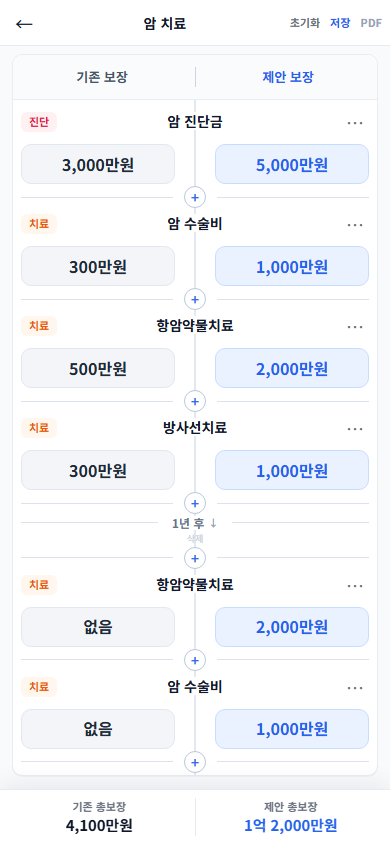
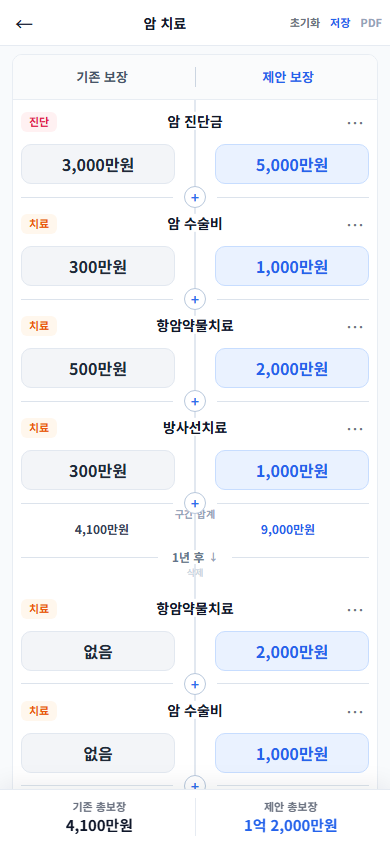
feat(coverage-simulator): period subtotals before time markers
Domain period totals, compact UI above markers, and no insert control below markers on mobile timeline.

diff --git a/src/features/coverage-simulator/domain/periodTotals.test.ts b/src/features/coverage-simulator/domain/periodTotals.test.ts
@@ -1,0 +1,146 @@
+import { describe, expect, it } from 'vitest'
+
+import { createScenarioId } from './ids'
+import {
+  calculateOpenPeriodAfterLastMarker,
+  calculateScenarioPeriodTotals,
+  sumCoverageAmounts,
+} from './periodTotals'
+import { insertTimeMarkerAfter, removeScenarioItem } from './scenarioOperations'
+import { calculateScenarioTotals } from './totals'
+import type { CoverageScenario, CoverageScenarioItem, ScenarioItem } from './types'
+
+function coverage(
+  partial: Omit<CoverageScenarioItem, 'id' | 'type' | 'order'> & { order: number },
+): CoverageScenarioItem {
+  return { id: createScenarioId(), type: 'coverage', ...partial }
+}
+
+function marker(label: string, order: number) {
+  return { id: createScenarioId(), type: 'time-marker' as const, label, order }
+}
+
+function scenario(items: ScenarioItem[]): CoverageScenario {
+  return {
+    id: 's1',
+    title: 'test',
+    diseaseType: 'cancer',
+    description: '',
+    consultationDate: '2026-01-01',
+    items,
+    createdAt: '',
+    updatedAt: '',
+  }
+}
+
+describe('periodTotals', () => {
+  it('no marker → no period rows', () => {
+    const items = [
+      coverage({ order: 0, category: 'diagnosis', label: 'A', currentAmount: 1, proposedAmount: 2 }),
+    ]
+    expect(calculateScenarioPeriodTotals(items)).toHaveLength(0)
+  })
+
+  it('one marker → subtotal from start to marker', () => {
+    const m = marker('1년 후', 3)
+    const items = [
+      coverage({ order: 0, category: 'diagnosis', label: 'a', currentAmount: 30_000_000, proposedAmount: 50_000_000 }),
+      coverage({ order: 1, category: 'treatment', label: 'b', currentAmount: 3_000_000, proposedAmount: 10_000_000 }),
+      coverage({ order: 2, category: 'treatment', label: 'c', currentAmount: 5_000_000, proposedAmount: 20_000_000 }),
+      m,
+    ]
+    const [p] = calculateScenarioPeriodTotals(items)
+    expect(p.currentTotal).toBe(38_000_000)
+    expect(p.proposedTotal).toBe(80_000_000)
+    expect(p.endMarkerId).toBe(m.id)
+    expect(p.startMarkerId).toBeNull()
+  })
+
+  it('two markers → independent segments', () => {
+    const m1 = marker('1년 후', 4)
+    const m2 = marker('1년 후', 7)
+    const items = [
+      coverage({ order: 0, category: 'diagnosis', label: '암 진단', currentAmount: 30_000_000, proposedAmount: 50_000_000 }),
+      coverage({ order: 1, category: 'treatment', label: '암 수술', currentAmount: 3_000_000, proposedAmount: 10_000_000 }),
+      coverage({ order: 2, category: 'treatment', label: '항암', currentAmount: 5_000_000, proposedAmount: 20_000_000 }),
+      coverage({ order: 3, category: 'treatment', label: '방사선', currentAmount: 3_000_000, proposedAmount: 10_000_000 }),
+      m1,
+      coverage({ order: 5, category: 'treatment', label: '항암2', currentAmount: 0, proposedAmount: 20_000_000 }),
+      coverage({ order: 6, category: 'treatment', label: '수술2', currentAmount: 0, proposedAmount: 10_000_000 }),
+      m2,
+      coverage({ order: 8, category: 'treatment', label: '방사선2', currentAmount: 0, proposedAmount: 10_000_000 }),
+    ]
+    const periods = calculateScenarioPeriodTotals(items)
+    expect(periods).toHaveLength(2)
+    expect(periods[0].currentTotal).toBe(41_000_000)
+    expect(periods[0].proposedTotal).toBe(90_000_000)
+    expect(periods[1].currentTotal).toBe(0)
+    expect(periods[1].proposedTotal).toBe(30_000_000)
+    expect(periods[1].startMarkerId).toBe(m1.id)
+
+    const grand = calculateScenarioTotals(scenario(items))
+    expect(grand.currentTotal).toBe(41_000_000)
+    expect(grand.proposedTotal).toBe(130_000_000)
+
+    const tail = calculateOpenPeriodAfterLastMarker(items)
+    expect(tail.proposedTotal).toBe(10_000_000)
+  })
+
+  it('marker delete merges segments', () => {
+    const m1 = marker('1년 후', 2)
+    const m2 = marker('2년 후', 4)
+    let s = scenario([
+      coverage({ order: 0, category: 'diagnosis', label: 'a', currentAmount: 10, proposedAmount: 20 }),
+      coverage({ order: 1, category: 'diagnosis', label: 'b', currentAmount: 1, proposedAmount: 2 }),
+      m1,
+      coverage({ order: 3, category: 'diagnosis', label: 'c', currentAmount: 100, proposedAmount: 200 }),
+      m2,
+    ])
+    s = removeScenarioItem(s, m1.id)
+    const periods = calculateScenarioPeriodTotals(s.items)
+    expect(periods).toHaveLength(1)
+    expect(periods[0].currentTotal).toBe(111)
+    expect(periods[0].proposedTotal).toBe(222)
+    expect(calculateScenarioTotals(s).currentTotal).toBe(111)
+  })
+
+  it('item order defines period membership', () => {
+    const m = marker('1년 후', 2)
+    const itemsBeforeMarker = [
+      coverage({ order: 0, category: 'diagnosis', label: 'before', currentAmount: 5, proposedAmount: 5 }),
+      m,
+      coverage({ order: 3, category: 'diagnosis', label: 'after', currentAmount: 50, proposedAmount: 50 }),
+    ]
+    expect(calculateScenarioPeriodTotals(itemsBeforeMarker)[0].currentTotal).toBe(5)
+    expect(calculateOpenPeriodAfterLastMarker(itemsBeforeMarker).currentTotal).toBe(50)
+
+    const itemsMerged = [
+      coverage({ order: 0, category: 'diagnosis', label: 'before', currentAmount: 5, proposedAmount: 5 }),
+      coverage({ order: 1, category: 'diagnosis', label: 'after', currentAmount: 50, proposedAmount: 50 }),
+      m,
+    ]
+    expect(calculateScenarioPeriodTotals(itemsMerged)[0].currentTotal).toBe(55)
+    expect(calculateOpenPeriodAfterLastMarker(itemsMerged).currentTotal).toBe(0)
+  })
+
+  it('insert marker splits one period into two', () => {
+    let s = scenario([
+      coverage({ order: 0, category: 'diagnosis', label: 'A', currentAmount: 10, proposedAmount: 10 }),
+      coverage({ order: 1, category: 'diagnosis', label: 'B', currentAmount: 1, proposedAmount: 1 }),
+      coverage({ order: 2, category: 'diagnosis', label: 'C', currentAmount: 100, proposedAmount: 100 }),
+    ])
+    s = insertTimeMarkerAfter(s, 1, '6개월 후')
+    const periods = calculateScenarioPeriodTotals(s.items)
+    expect(periods).toHaveLength(1)
+    expect(periods[0].currentTotal).toBe(11)
+    expect(calculateOpenPeriodAfterLastMarker(s.items).currentTotal).toBe(100)
+  })
+
+  it('sumCoverageAmounts treats null as zero', () => {
+    expect(
+      sumCoverageAmounts([
+        coverage({ order: 0, category: 'other', label: 'x', currentAmount: null, proposedAmount: 3 }),
+      ]),
+    ).toEqual({ currentTotal: 0, proposedTotal: 3 })
+  })
+})

diff --git a/src/features/coverage-simulator/components/center-timeline/CenterAxisTimeline.tsx b/src/features/coverage-simulator/components/center-timeline/CenterAxisTimeline.tsx
@@ -1,8 +1,12 @@
+import { useMemo } from 'react'
+
 import { CoverageBadge } from '../CoverageBadge'
 import { formatCoverageAmountLabel, formatTotalAmountLabel } from '../../domain/formatAmount'
+import { periodTotalsByEndMarkerId } from '../../domain/periodTotals'
 import type { CoverageScenarioItem, ScenarioItem } from '../../domain/types'
 import { EventRowMenu } from './EventRowMenu'
 import { TimelineInsertControl } from './TimelineInsertControl'
+import { TimelinePeriodSubtotal } from './TimelinePeriodSubtotal'
 
 export type CenterAxisTimelineProps = {
   items: ScenarioItem[]
@@ -102,6 +106,7 @@ export function CenterAxisTimeline({
   onAddAfter,
 }: CenterAxisTimelineProps) {
   const handlers = { onEditItem, onMoveItem, onRemoveItem }
+  const periodByMarkerId = useMemo(() => periodTotalsByEndMarkerId(items), [items])
 
   return (
     <section className={`cs-axis-sheet cs-axis-sheet--${variant}`} aria-label="보장 비교 타임라인">
@@ -119,12 +124,22 @@ export function CenterAxisTimeline({
           ) : null}
           {items.map((item) => (
             <div key={item.id} className="cs-axis-block">
-              {item.type === 'time-marker'
-                ? renderTimeMarker(item, onRemoveItem)
-                : renderCoverageRow(item, variant, handlers)}
-              {compactInsert ? (
-                <TimelineInsertControl afterOrder={item.order} onInsert={onAddAfter} />
+              {item.type === 'time-marker' ? (
+                <>
+                  {periodByMarkerId.has(item.id) ? (
+                    <TimelinePeriodSubtotal
+                      currentTotal={periodByMarkerId.get(item.id)!.currentTotal}
+                      proposedTotal={periodByMarkerId.get(item.id)!.proposedTotal}
+                    />
+                  ) : null}
+                  {renderTimeMarker(item, onRemoveItem)}
+                </>
               ) : (
+                renderCoverageRow(item, variant, handlers)
+              )}
+              {compactInsert && item.type !== 'time-marker' ? (
+                <TimelineInsertControl afterOrder={item.order} onInsert={onAddAfter} />
+              ) : !compactInsert ? (
                 <button
                   type="button"
                   className="cs-axis-add coverage-simulator-add-slot"
@@ -132,7 +147,7 @@ export function CenterAxisTimeline({
                 >
                   + 항목 추가
                 </button>
-              )}
+              ) : null}
             </div>
           ))}
         </div>

diff --git a/src/features/coverage-simulator/domain/periodTotals.ts b/src/features/coverage-simulator/domain/periodTotals.ts
@@ -1,0 +1,83 @@
+import type { CoverageScenarioItem, ScenarioItem } from './types'
+
+export type ScenarioPeriodTotal = {
+  /** 이 구간을 닫는 time-marker id */
+  endMarkerId: string
+  /** null이면 시나리오 시작부터 */
+  startMarkerId: string | null
+  currentTotal: number
+  proposedTotal: number
+}
+
+export function sumCoverageAmounts(items: CoverageScenarioItem[]): {
+  currentTotal: number
+  proposedTotal: number
+} {
+  let currentTotal = 0
+  let proposedTotal = 0
+  for (const item of items) {
+    currentTotal += item.currentAmount ?? 0
+    proposedTotal += item.proposedAmount ?? 0
+  }
+  return { currentTotal, proposedTotal }
+}
+
+function sortedItems(items: ScenarioItem[]): ScenarioItem[] {
+  return [...items].sort((a, b) => a.order - b.order)
+}
+
+/**
+ * 각 time-marker 직전 구간의 기존/제안 합계.
+ * marker 자체는 합산하지 않으며, order SSOT 기준으로 구간을 나눈다.
+ */
+export function calculateScenarioPeriodTotals(items: ScenarioItem[]): ScenarioPeriodTotal[] {
+  const periods: ScenarioPeriodTotal[] = []
+  let segment: CoverageScenarioItem[] = []
+  let startMarkerId: string | null = null
+
+  for (const item of sortedItems(items)) {
+    if (item.type === 'time-marker') {
+      const { currentTotal, proposedTotal } = sumCoverageAmounts(segment)
+      periods.push({
+        endMarkerId: item.id,
+        startMarkerId,
+        currentTotal,
+        proposedTotal,
+      })
+      startMarkerId = item.id
+      segment = []
+      continue
+    }
+    segment.push(item)
+  }
+
+  return periods
+}
+
+/** 마지막 marker 이후 ~ 끝 (향후 UI용). 이번 화면에서는 미표시 */
+export function calculateOpenPeriodAfterLastMarker(items: ScenarioItem[]): {
+  startMarkerId: string | null
+  currentTotal: number
+  proposedTotal: number
+} {
+  const sorted = sortedItems(items)
+  let segment: CoverageScenarioItem[] = []
+  let startMarkerId: string | null = null
+
+  for (const item of sorted) {
+    if (item.type === 'time-marker') {
+      startMarkerId = item.id
+      segment = []
+      continue
+    }
+    segment.push(item)
+  }
+
+  return { startMarkerId, ...sumCoverageAmounts(segment) }
+}
+
+export function periodTotalsByEndMarkerId(
+  items: ScenarioItem[],
+): Map<string, ScenarioPeriodTotal> {
+  return new Map(calculateScenarioPeriodTotals(items).map((row) => [row.endMarkerId, row]))
+}

diff --git a/src/features/coverage-simulator/styles/center-timeline.css b/src/features/coverage-simulator/styles/center-timeline.css
@@ -435,6 +435,49 @@
   font-weight: 500;
 }
 
+.coverage-simulator-root--mobile-preview .cs-axis-period-total {
+  padding: 0 var(--cs-timeline-item-pad-x) var(--cs-space-1);
+  margin-bottom: 2px;
+}
+
+.coverage-simulator-root--mobile-preview .cs-axis-period-total__label {
+  margin: 0 0 2px;
+  font-size: 0.625rem;
+  font-weight: 700;
+  line-height: 1.2;
+  text-align: center;
+  color: #94a3b8;
+  letter-spacing: 0.02em;
+}
+
+.coverage-simulator-root--mobile-preview .cs-axis-period-total__compare {
+  display: grid;
+  grid-template-columns: 1fr 16px 1fr;
+  gap: 4px;
+  align-items: center;
+}
+
+.coverage-simulator-root--mobile-preview .cs-axis-period-total__value {
+  font-size: 0.75rem;
+  font-weight: 700;
+  line-height: 1.2;
+  text-align: center;
+  color: #334155;
+  white-space: nowrap;
+}
+
+.coverage-simulator-root--mobile-preview .cs-axis-period-total__value--proposed {
+  color: var(--cs-color-proposed);
+  font-weight: 800;
+}
+
+.coverage-simulator-root--mobile-preview .cs-axis-period-total__spine {
+  width: 1px;
+  height: 12px;
+  margin: 0 auto;
+  background: #e2e8f0;
+}
+
 .coverage-simulator-root--mobile-preview .cs-mobile-editor-header {
   position: sticky;
   top: 0;

diff --git a/src/features/coverage-simulator/components/center-timeline/TimelinePeriodSubtotal.tsx b/src/features/coverage-simulator/components/center-timeline/TimelinePeriodSubtotal.tsx
@@ -1,0 +1,26 @@
+import { formatTotalAmountLabel } from '../../domain/formatAmount'
+
+type Props = {
+  currentTotal: number
+  proposedTotal: number
+}
+
+function formatPeriodSide(amount: number): string {
+  if (amount <= 0) return '없음'
+  return formatTotalAmountLabel(amount)
+}
+
+export function TimelinePeriodSubtotal({ currentTotal, proposedTotal }: Props) {
+  return (
+    <div className="cs-axis-period-total" data-testid="coverage-period-subtotal">
+      <div className="cs-axis-period-total__label">구간 합계</div>
+      <div className="cs-axis-period-total__compare" aria-label="구간 합계 기존 및 제안">
+        <span className="cs-axis-period-total__value">{formatPeriodSide(currentTotal)}</span>
+        <span className="cs-axis-period-total__spine" aria-hidden="true" />
+        <span className="cs-axis-period-total__value cs-axis-period-total__value--proposed">
+          {formatPeriodSide(proposedTotal)}
+        </span>
+      </div>
+    </div>
+  )
+}
